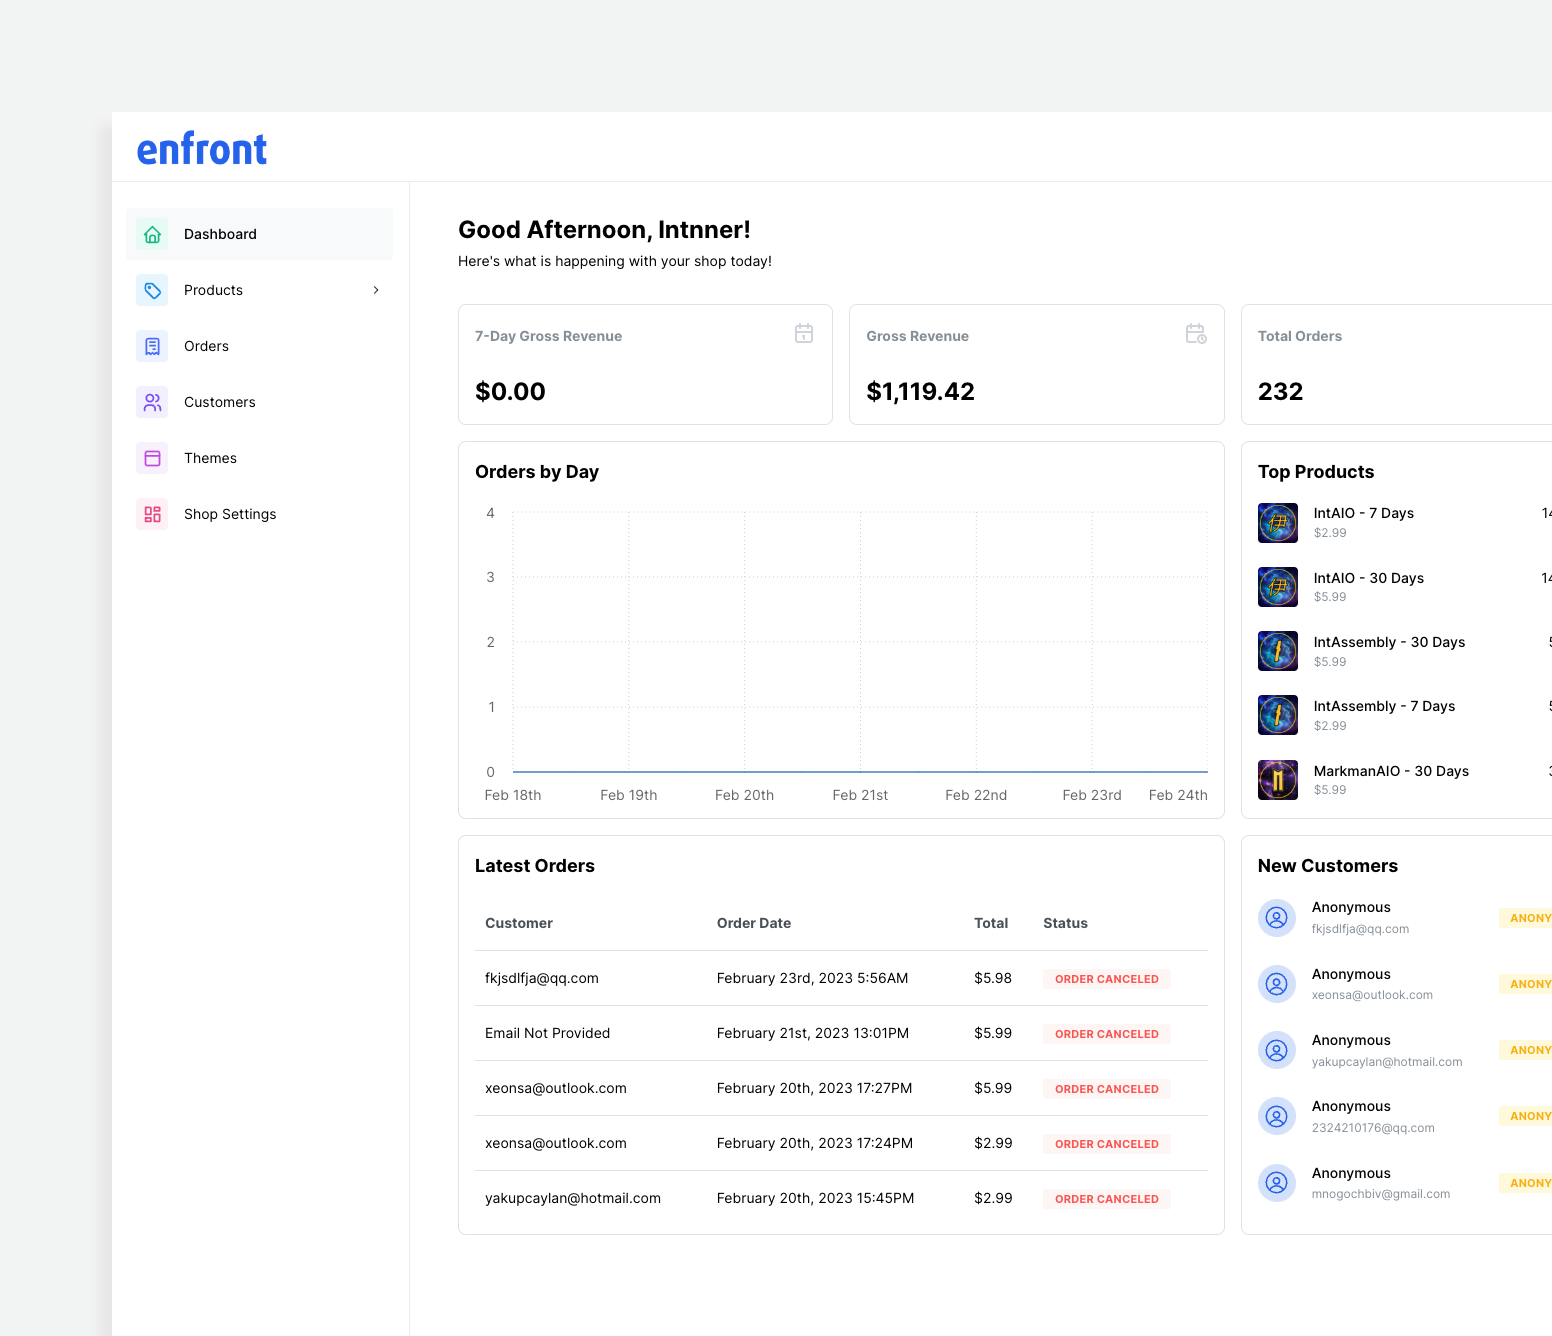
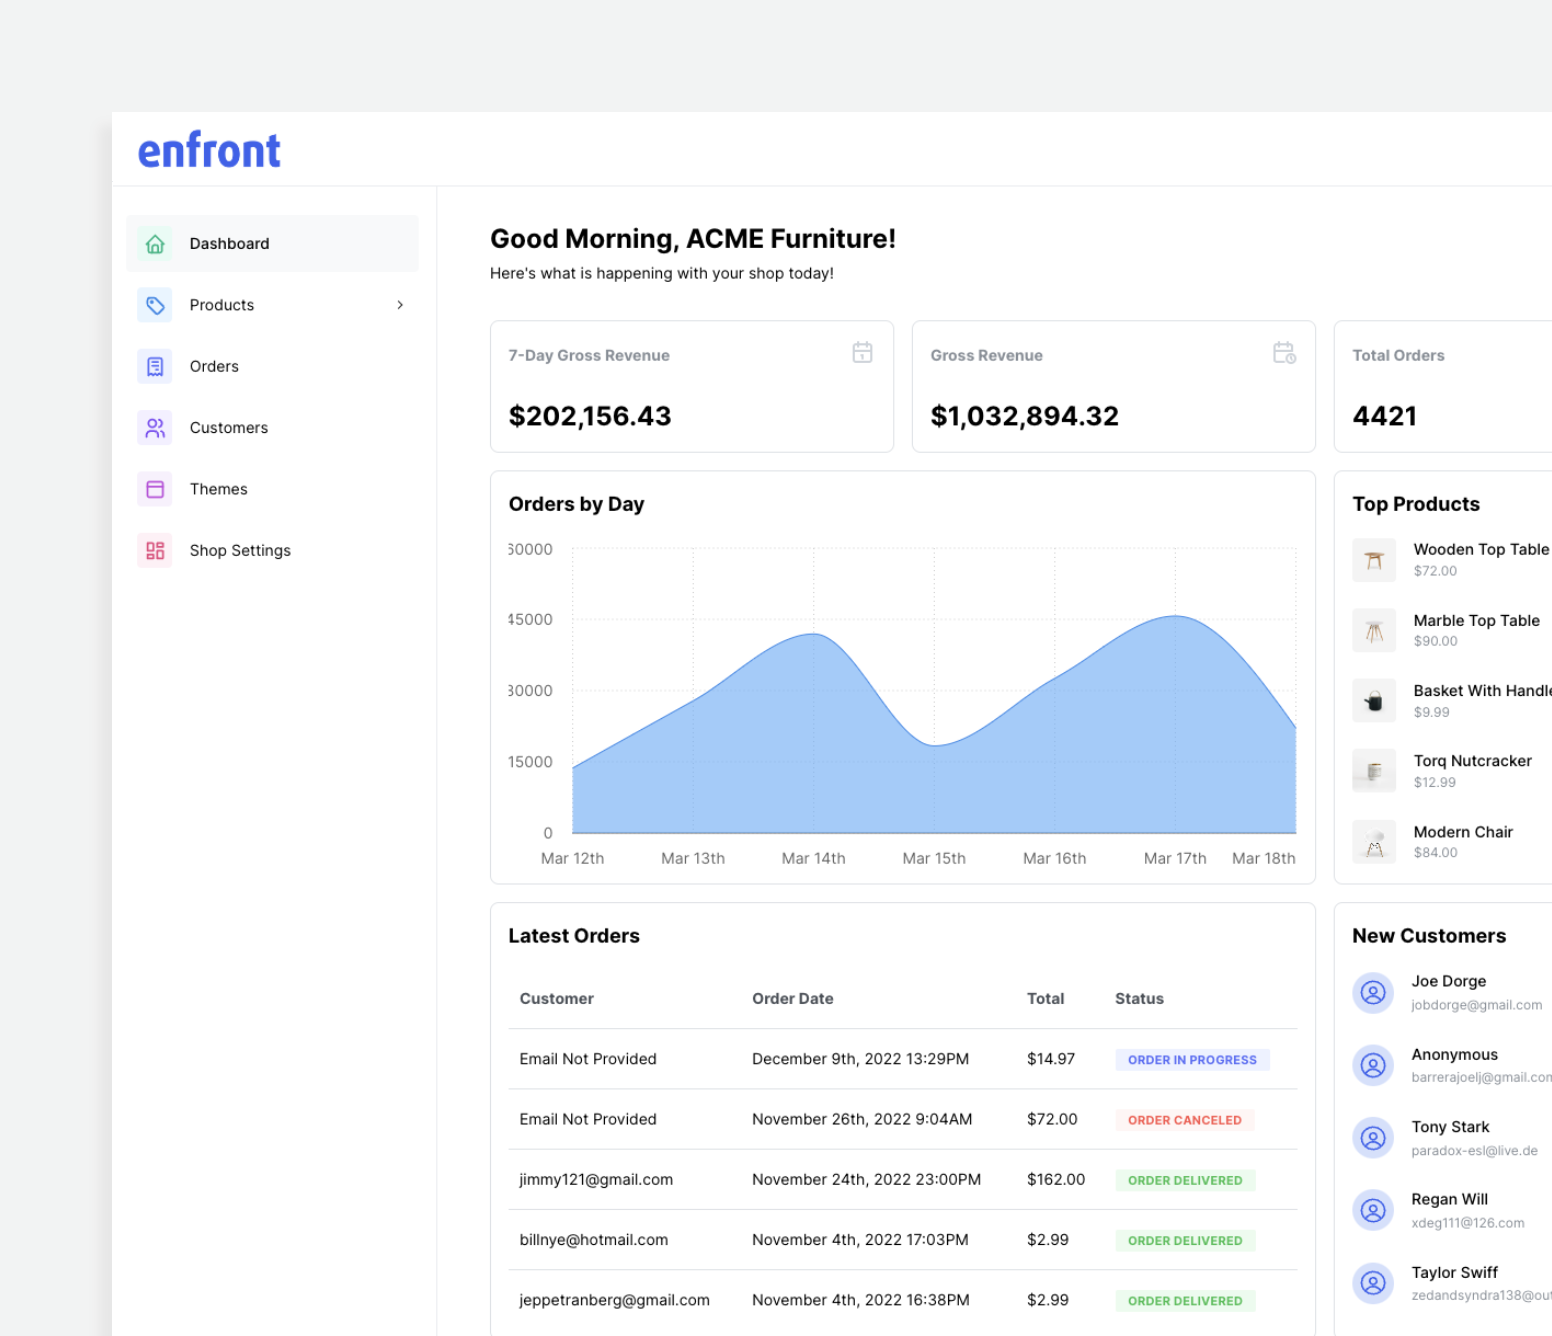
refactor: add and replace some enfront images

diff --git a/components/experience/enfront.tsx b/components/experience/enfront.tsx
@@ -67,6 +67,11 @@ export default function Enfront(): JSX.Element {
           />
           <figcaption className="mt-2 text-center">Enfront&apos;s Fullstack Architecture</figcaption>
         </figure>
+
+        <figure className="cursor-zoom-in">
+          <Zoom src="/screenshots/enfront/enfront-theme.png" alt="The Enfront default shop theme" />
+          <figcaption className="mt-2 text-center">Enfront&apos;s Default Shop Theme</figcaption>
+        </figure>
       </div>
     </div>
   );
